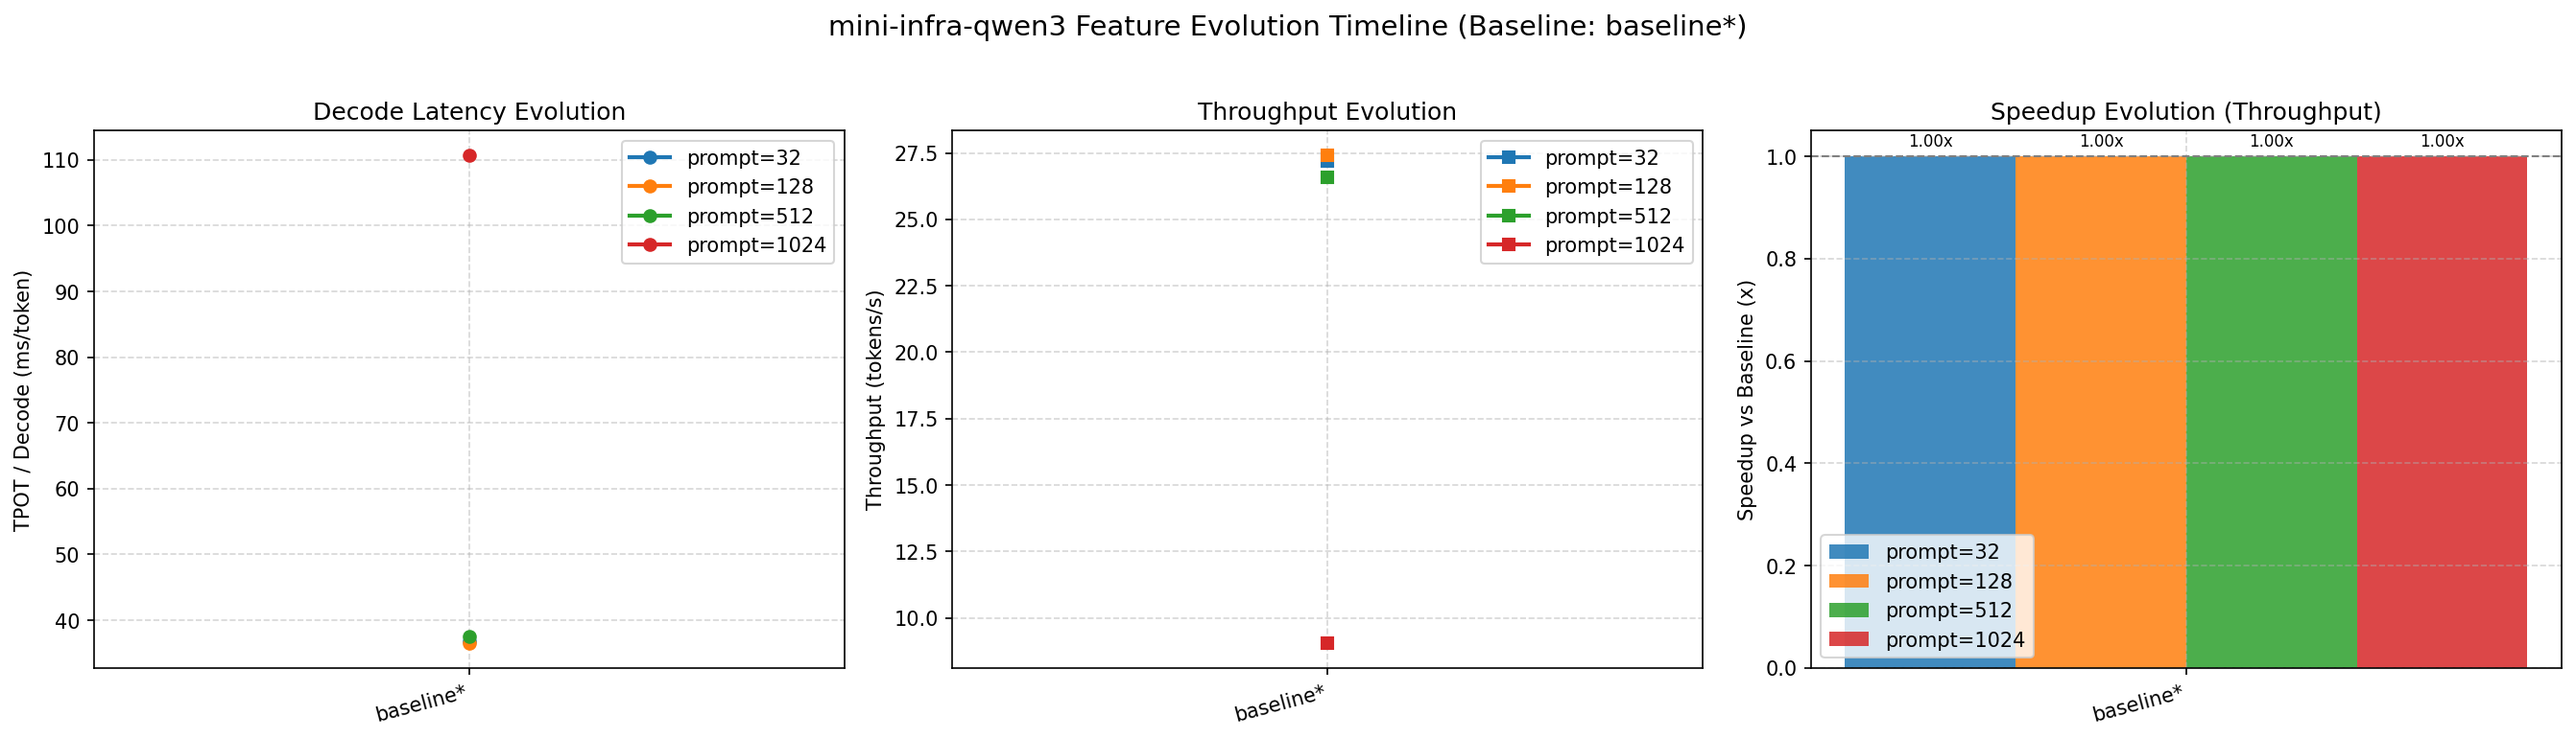
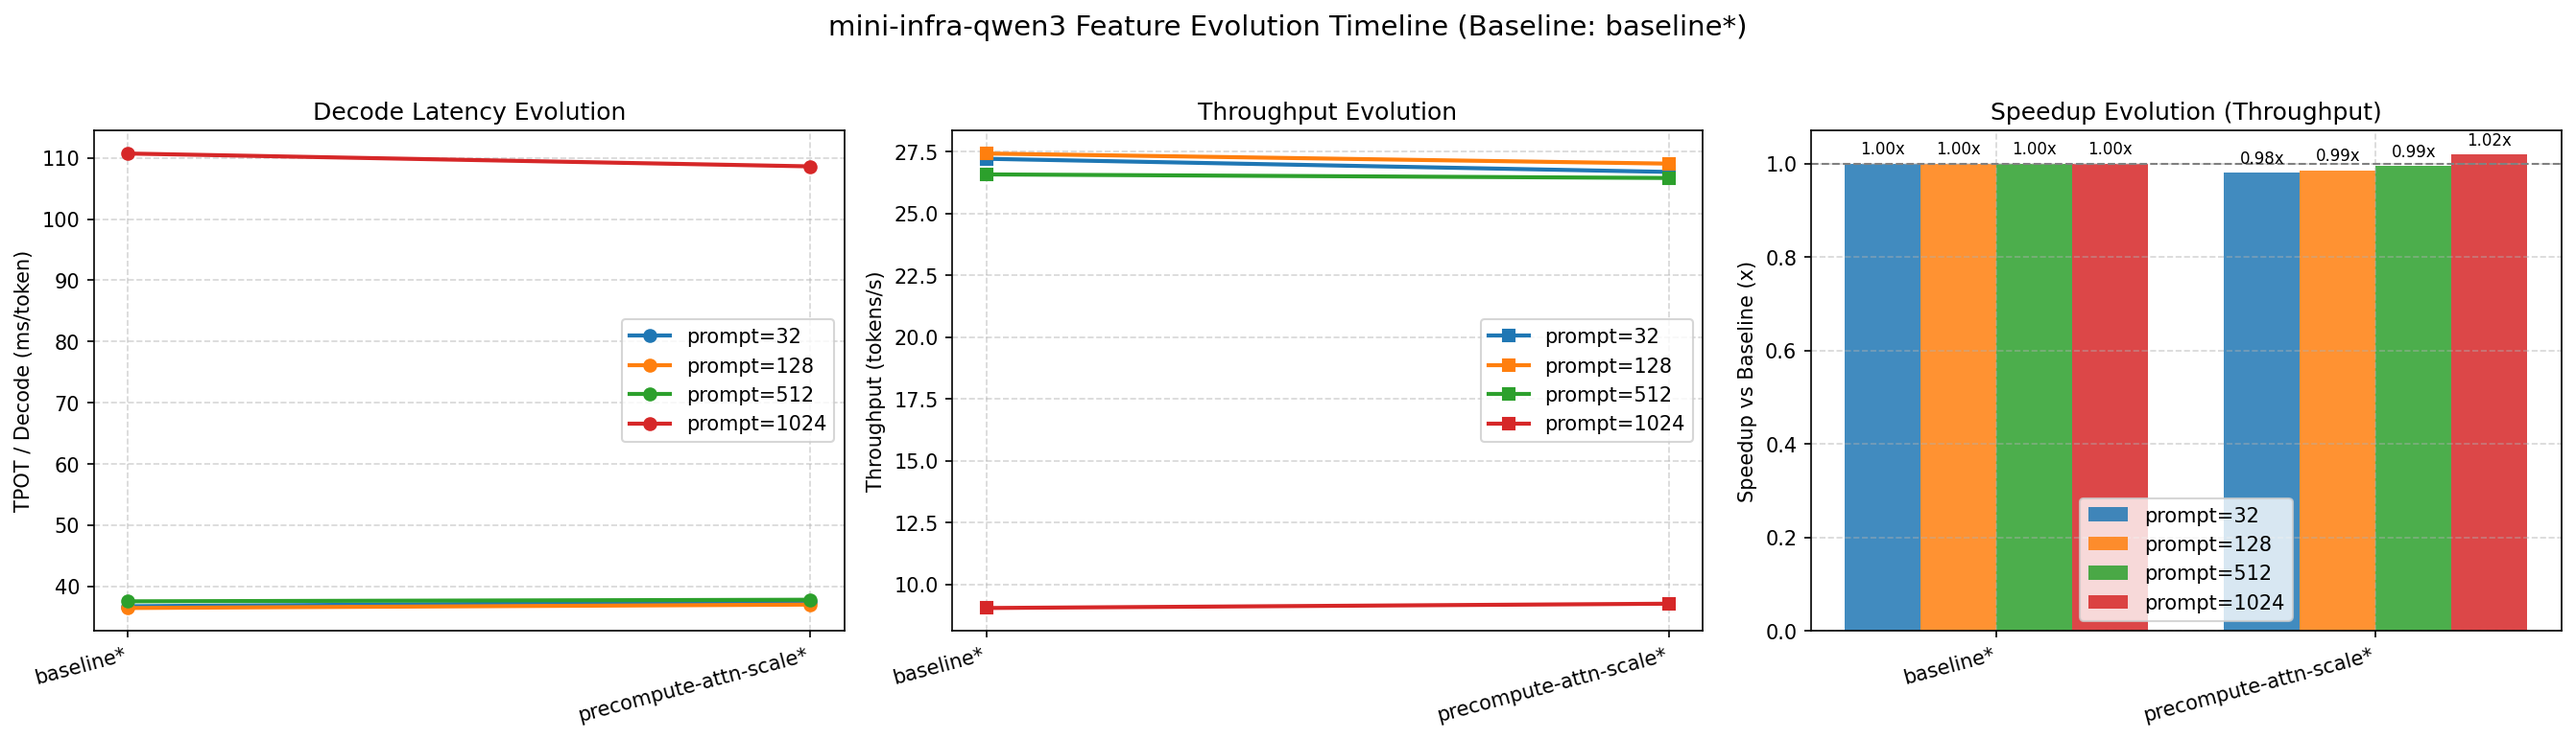
refactor: precompute attention scaling factor and update benchmark result paths and CLI commands

diff --git a/src/mini_infra/bench/run.py b/src/mini_infra/bench/run.py
@@ -1,16 +1,22 @@
 """统一 benchmark：多 workload、多次重复、统计量、正确性门禁，结果以 JSON 落盘。
 
+数据源与绘图约定：
+    本命令是项目中【唯一】产生全量基准数据并归档到 benchmarks/result-history/ 的工具。
+    只有本命令写入 result-history/ 的 JSON 结果才会被 mini-infra-bench-plot 读取并绘制图表与报表。
+    （mini-infra-bench-regression 仅用于 0/1 门禁判定，其临时结果不写入该目录，亦不参与画图）。
+    数据目录默认为当前目录下的 benchmarks/，可通过环境变量 MINI_INFRA_BENCH_DIR 修改。
+    
+
 用法示例（需 pip install -e .，在项目根目录执行）：
     # 首次在 baseline 上生成 golden 输出（之后所有优化都与它比对）
     mini-infra-bench --tag baseline --update-golden
 
-    # 每次优化后运行，结果写入 benchmarks/results/<commit>_<tag>.json
+    # 每次优化后运行，结果写入 benchmarks/result-history/<commit>_<tag>.json
     mini-infra-bench --tag kv-cache
 
     # 快速试跑
     mini-infra-bench --tag dev --prompt-lens 32 --output-lens 16 --repeats 3
 
-数据目录默认为当前目录下的 benchmarks/，可通过环境变量 MINI_INFRA_BENCH_DIR 修改。
 新增优化（如 KV Cache）时，只需在 ENGINES 中注册一个新的 generate 适配函数。
 """
 
@@ -35,7 +41,7 @@ from mini_infra.qwen3_model import (
 from mini_infra.qwen3_tokenizer import Qwen3Tokenizer
 
 BENCH_DIR = Path(os.environ.get("MINI_INFRA_BENCH_DIR", "benchmarks")).resolve()
-RESULTS_DIR = BENCH_DIR / "results"
+RESULTS_DIR = BENCH_DIR / "result-history"
 GOLDEN_OUTPUT_PATH = BENCH_DIR / "data" / "golden_output_tokens.json"
 GOLDEN_PROMPT = "请用一句话介绍 KV Cache。"
 GOLDEN_MAX_OUTPUT_TOKENS = 32

diff --git a/src/mini_infra/bench/regression.py b/src/mini_infra/bench/regression.py
@@ -1,14 +1,20 @@
 """性能回归检查：运行轻量版 benchmark，与参考结果比较，中位数劣化超阈值则失败。
 
+定位与数据流说明：
+    本模块是纯粹的【质量门禁与防回退守门人（Quality Gate）】，只输出退出码（0/1/2）与控制台文本。
+    其默认生成的 candidate.local.json 为临时比对文件（已被 .gitignore 忽略），不会写入
+    benchmarks/result-history/，因此【不参与】mini-infra-bench-plot 的绘图与时间线分析。
+    绘图所需的全量数据源唯一定义来自 mini-infra-bench（run.py）。
+
 用法：
     # 首次/有意接受新性能后，刷新参考结果（需提交 benchmarks/data/reference.json）
-    mini-infra-bench-check --update-reference
+    mini-infra-bench-regression --update-reference
 
     # CI / pre-push：运行轻量 benchmark 并对比参考结果，劣化 >5% 返回非零退出码
-    mini-infra-bench-check
+    mini-infra-bench-regression
 
     # 只比较两份已有结果，不重新运行
-    mini-infra-bench-check --candidate a.json --reference b.json
+    mini-infra-bench-regression --candidate a.json --reference b.json
 
 退出码：0 通过 / 跳过，1 性能回归，2 正确性失败或运行错误。
 参考结果与硬件绑定：GPU 型号不一致时默认跳过（--strict-hardware 则视为失败）。

diff --git a/src/mini_infra/bench/plot.py b/src/mini_infra/bench/plot.py
@@ -1,4 +1,9 @@
-"""读取 benchmarks/results/*.json，生成 Markdown 汇总表、序列长度扩展曲线与特性演进时间线图。
+"""读取 benchmarks/result-history/*.json，生成 Markdown 汇总表、序列长度扩展曲线与特性演进时间线图。
+
+数据源说明：
+    本模块【专门且仅读取】由 mini-infra-bench（run.py）写入 benchmarks/result-history/ 的全量基准 JSON 记录。
+    其他工具（如 mini-infra-bench-regression 的临时轻量比对文件 candidate.local.json 或 mini-infra-run 的控制台输出）
+    不进入 result-history/，因此不会被本模块绘制。
 
 用法：
     mini-infra-bench-plot                  # 以最早的结果作为 baseline
@@ -11,7 +16,7 @@ import os
 from pathlib import Path
 
 BENCH_DIR = Path(os.environ.get("MINI_INFRA_BENCH_DIR", "benchmarks")).resolve()
-RESULTS_DIR = BENCH_DIR / "results"
+RESULTS_DIR = BENCH_DIR / "result-history"
 REPORTS_DIR = BENCH_DIR / "reports"
 
 

diff --git a/README.md b/README.md
@@ -38,15 +38,15 @@ mini-infra-qwen3/
 │       │   ├── run_inference.py       # mini-infra-run：单请求推理与计时
 │       │   └── compare_with_transformers.py # mini-infra-compare：与 Transformers 对齐
 │       └── bench/
-│           ├── run.py                 # mini-infra-bench：统计型 benchmark（含正确性门禁）
-│           ├── plot.py                # mini-infra-bench-plot：加速比汇总表与趋势图
-│           └── regression.py          # mini-infra-bench-check：性能回归检查
+│           ├── run.py                 # mini-infra-bench：全量基准测量（落盘至 result-history/，plot 唯一数据源）
+│           ├── plot.py                # mini-infra-bench-plot：读取 result-history/ 生成汇总表与演进趋势图
+│           └── regression.py          # mini-infra-bench-regression：轻量质量守门（仅 0/1 退出码，不参与画图）
 ├── tests/
 │   ├── unit/                          # CPU 单元测试（pytest）
 │   └── gpu/                           # 需要 GPU/权重的测试（pytest -m gpu）
 ├── benchmarks/
 │   ├── data/                          # golden_output_tokens.json、reference.json（需提交）
-│   ├── results/                       # 每个版本一份 <commit>_<tag>.json
+│   ├── result-history/                # 每个版本一份 <commit>_<tag>.json
 │   └── reports/                       # SUMMARY.md、trend.png（生成物）
 ├── .github/workflows/
 │   ├── cpu-ci.yml                     # CPU 上 ruff + pytest
@@ -160,7 +160,7 @@ mini-infra-compare \
 - **单元测试**：`pytest -m "not gpu"`（覆盖算子结构、输入输出形状与基准回归比对逻辑）。
 - **零性能倒退守护（Zero-Regression Guard）**：
   ```bash
-  mini-infra-bench-check    # 轻量级（约 1 分钟），TTFT / TPOT 中位数劣化 >5% 自动拦截报警
+  mini-infra-bench-regression    # 轻量级（约 1 分钟），TTFT / TPOT 中位数劣化 >5% 自动拦截报警
   ```
   - 本地：`pip install -e ".[dev]" && pre-commit install --hook-type pre-commit --hook-type pre-push`，commit 运行 ruff，push 前运行回归守护。
   - CI：PR 会在 GPU runner 上自动触发 [pr-perf-regression.yml](.github/workflows/pr-perf-regression.yml)。
@@ -173,15 +173,19 @@ mini-infra-compare \
 ```bash
 pip install -e ".[bench]"
 
-# 1. 运行全量矩阵测试并记录新版本特性（以 KV Cache 为例）
+# 1. 运行全量矩阵测试并记录新版本特性（以 KV Cache 为例，结果落盘至 benchmarks/result-history/）
 mini-infra-bench --tag "v0.2.0-kv-cache"
 
-# 2. 自动生成多版本演化表与对比图
+# 2. 自动生成多版本演化表与对比图（唯一定向读取 benchmarks/result-history/*.json）
 mini-infra-bench-plot
 
 # 3. 将新性能固化为后续日常开发的零退化底线
-mini-infra-bench-check --update-reference
+mini-infra-bench-regression --update-reference
 ```
+
+> **注意（数据流与绘图约定）**：
+> * **`mini-infra-bench-plot` 只消费 `mini-infra-bench`（`run.py`）的输出**：只有通过 `mini-infra-bench` 跑出的全矩阵数据才会归档至 `benchmarks/result-history/` 并被自动读入绘制成趋势图与演进时间线；
+> * **`mini-infra-bench-regression` 仅用于 CI 拦截守门**：其生成的 `candidate.local.json` 为临时比对文件，不进入版本库亦不参与画图。
 
 #### 生成产物：
 - **`benchmarks/reports/SUMMARY.md`**：记录所有历史版本的详细数据与相对 Baseline 加速比。

diff --git a/benchmarks/reports/SUMMARY.md b/benchmarks/reports/SUMMARY.md
@@ -8,6 +8,10 @@
 | baseline* | 5d5bd0a | 1 | 128 | 64 | 37.60 (1.00x) | 36.45 (1.00x) | 27.4 (1.00x) | 1257 | ✅ |
 | baseline* | 5d5bd0a | 1 | 512 | 64 | 39.52 (1.00x) | 37.54 (1.00x) | 26.6 (1.00x) | 1480 | ✅ |
 | baseline* | 5d5bd0a | 1 | 1024 | 64 | 102.22 (1.00x) | 110.72 (1.00x) | 9.0 (1.00x) | 1778 | ✅ |
+| precompute-attn-scale* | 33dcce3 | 1 | 32 | 64 | 38.18 (0.98x) | 37.47 (0.98x) | 26.7 (0.98x) | 1201 | ✅ |
+| precompute-attn-scale* | 33dcce3 | 1 | 128 | 64 | 37.93 (0.99x) | 37.01 (0.98x) | 27.0 (0.99x) | 1257 | ✅ |
+| precompute-attn-scale* | 33dcce3 | 1 | 512 | 64 | 39.98 (0.99x) | 37.80 (0.99x) | 26.4 (0.99x) | 1480 | ✅ |
+| precompute-attn-scale* | 33dcce3 | 1 | 1024 | 64 | 100.86 (1.01x) | 108.62 (1.02x) | 9.2 (1.02x) | 1778 | ✅ |
 
 ## 可视化趋势分析
 
